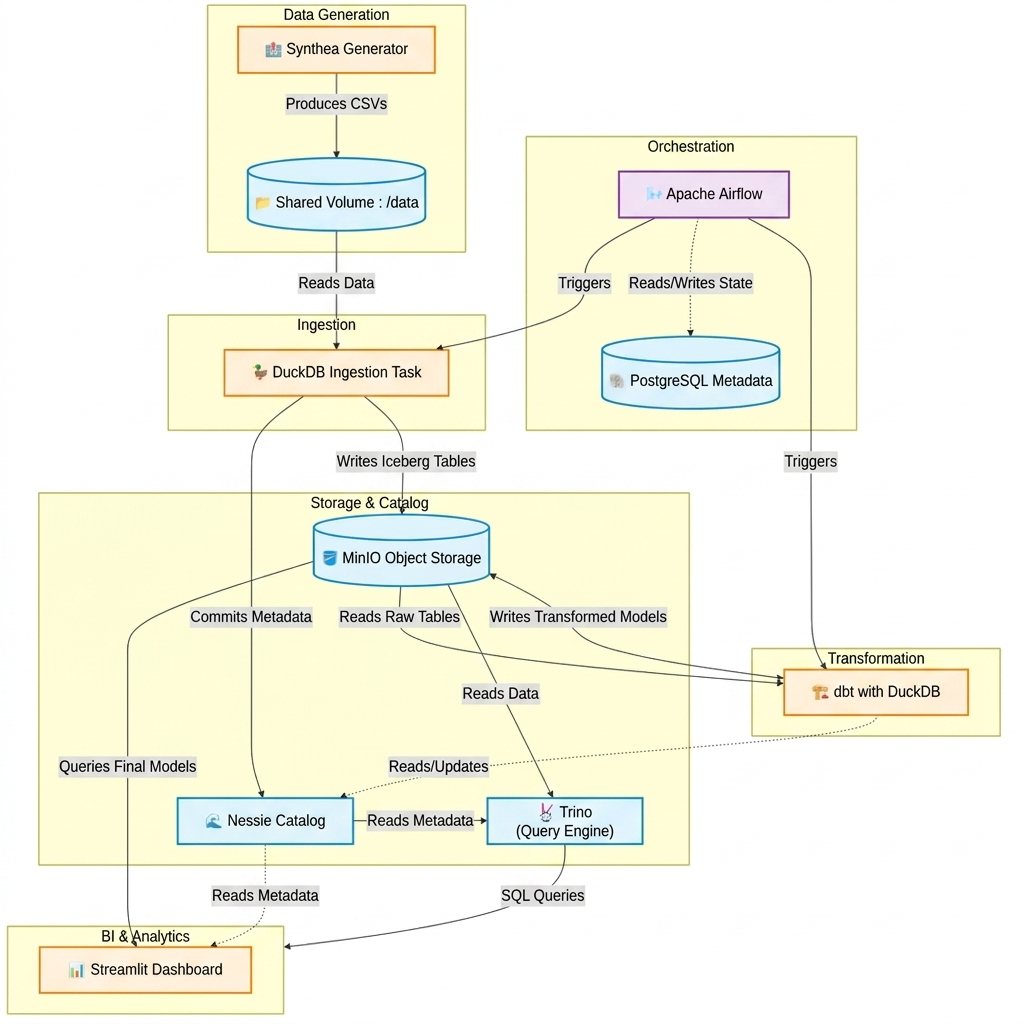
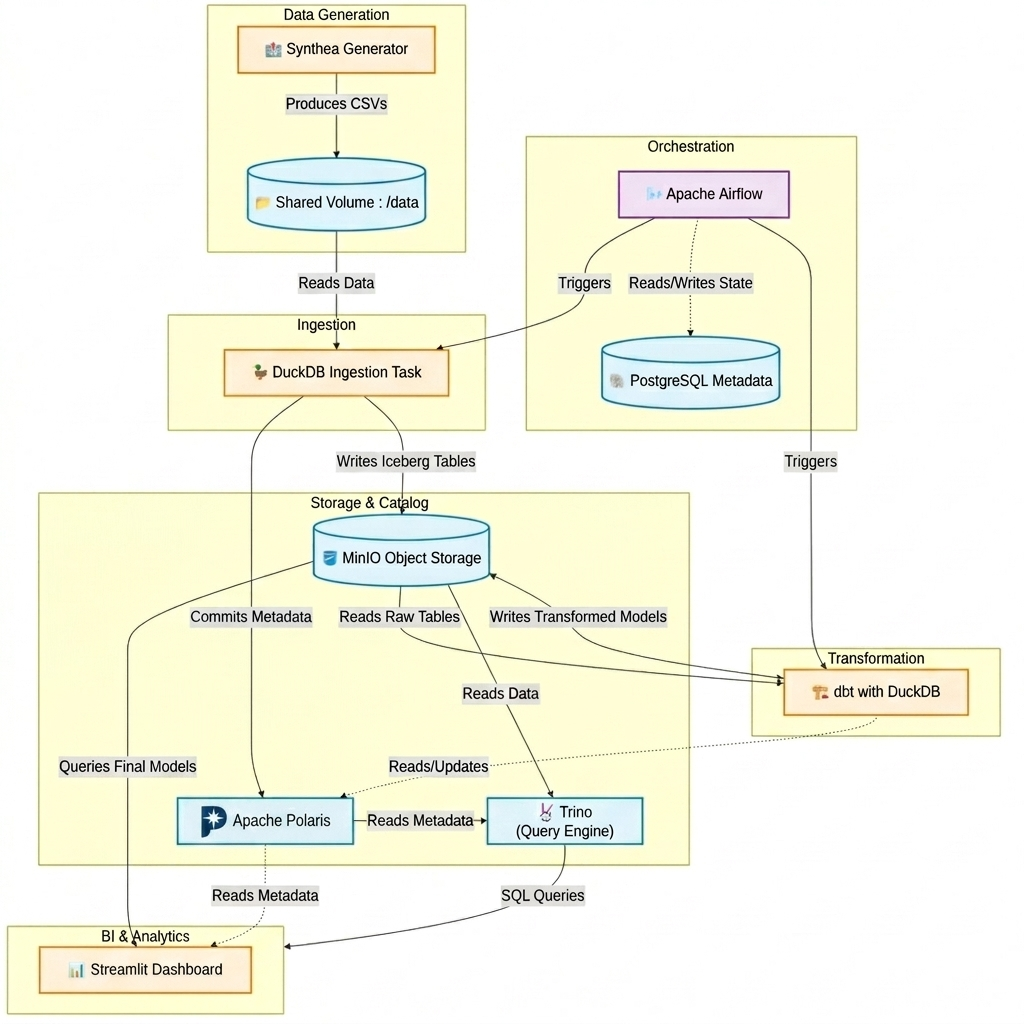
Replace Nessie with Apache Polaris Iceberg Catalog and fix table registration

Changed region(s): [[0.1875, 0.7812, 0.3125, 0.8125]]

diff --git a/dashboard/app.py b/dashboard/app.py
@@ -27,7 +27,7 @@ try:
     st.sidebar.header("Settings")
     
     # Query Data - Updated to match Airflow asset output path
-    query = "SELECT * FROM iceberg_scan('s3://healthcare/iceberg/patients', allow_moved_paths=true)"
+    query = "SELECT * FROM iceberg_scan('s3://healthcare/iceberg/default/patients', allow_moved_paths=true)"
     
     try:
         df = con.execute(query).df()

diff --git a/dags/healthcare_pipeline.py b/dags/healthcare_pipeline.py
@@ -52,7 +52,7 @@ def ingest_iceberg_data():
     """)
     
     # Copy to Iceberg
-    con.execute("COPY raw_patients TO 's3://healthcare/iceberg/patients' (FORMAT ICEBERG);")
+    con.execute("COPY raw_patients TO 's3://healthcare/iceberg/default/patients' (FORMAT ICEBERG);")
     
     print("Ingestion Complete!")
 

diff --git a/README.md b/README.md
@@ -6,7 +6,7 @@ This project is a local Data Engineering pipeline designed to simulate, ingest, 
 
 - **Synthea**: Generates synthetic patient health records.
 - **MinIO**: S3-compatible object storage.
-- **Nessie**: Git-like catalog for Iceberg tables.
+- **Apache Polaris**: Iceberg REST catalog.
 - **DuckDB**: In-memory analytical database for data ingestion and processing.
 - **dbt**: Defines data transformation models.
 - **Apache Iceberg**: Open table format for analytic datasets.
@@ -41,7 +41,7 @@ Spin up the entire stack using the provided Makefile:
 make up
 ```
 
-This will start MinIO, Nessie, the Synthea generator, Postgres, and the Airflow containers.
+This will start MinIO, Apache Polaris, the Synthea generator, Postgres, and the Airflow containers.
 
 ### 2. Generate Data
 
@@ -90,7 +90,7 @@ Start the Trino CLI:
 make trino-cli
 ```
 
-Once inside the Trino CLI, register the Iceberg tables ingested by DuckDB into the Nessie catalog (since DuckDB writes file-based Iceberg tables directly to MinIO without catalog registration):
+Once inside the Trino CLI, register the Iceberg tables ingested by DuckDB into the Polaris catalog (since DuckDB writes file-based Iceberg tables directly to MinIO without catalog registration):
 
 ```sql
 -- Register the patients table (find the actual metadata.json filename in MinIO Console)
@@ -124,7 +124,7 @@ A handy `Makefile` is included to simplify Docker operations. Run `make help` to
 -   **MinIO Console**: [http://localhost:9001](http://localhost:9001)
     -   User: `admin`
     -   Password: `password123`
--   **Nessie API**: [http://localhost:19101/api/v1](http://localhost:19101/api/v1)
+-   **Apache Polaris API**: [http://localhost:8181](http://localhost:8181)
 -   **Airflow UI**: [http://localhost:8080](http://localhost:8080)
     -   User: `admin`
     -   Password: `admin`
